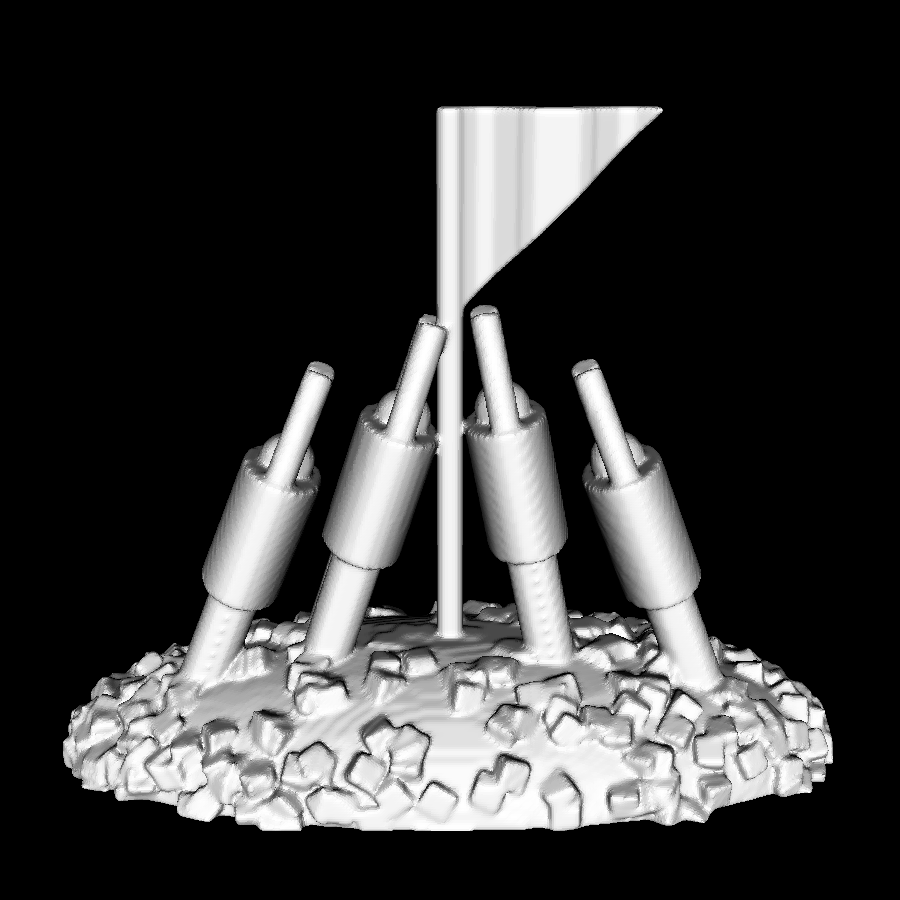
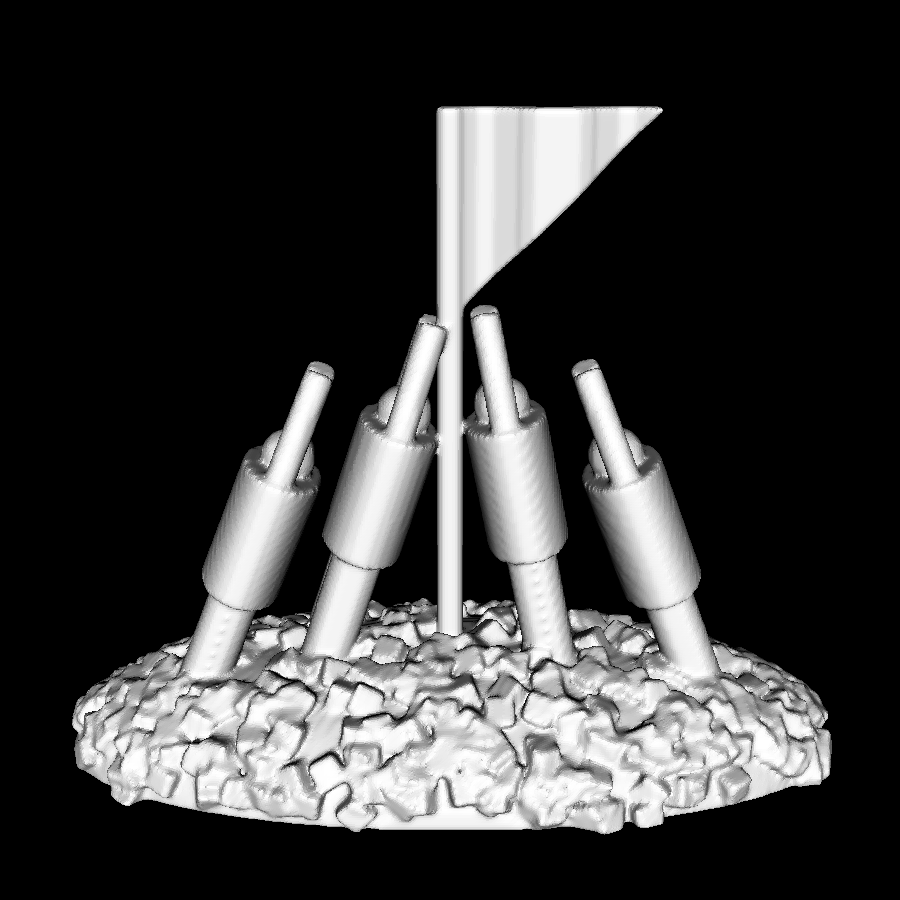
flag statue: more uniform rocks; more of a neck

diff --git a/examples/parody/flag_statue/base.go b/examples/parody/flag_statue/base.go
@@ -17,34 +17,24 @@ const (
 )
 
 func GenerateBase() model3d.Solid {
+	extra := model3d.Coord3D{X: 1, Y: 1}.Scale(BaseChunkSize)
 	return model3d.IntersectedSolid{
 		&model3d.RectSolid{
-			MinVal: model3d.Coord3D{X: -BaseLength / 2, Y: -BaseWidth / 2, Z: 0},
-			MaxVal: model3d.Coord3D{X: BaseLength / 2, Y: BaseWidth / 2, Z: BaseHeight},
+			MinVal: model3d.Coord3D{X: -BaseLength / 2, Y: -BaseWidth / 2, Z: 0}.Sub(extra),
+			MaxVal: model3d.Coord3D{X: BaseLength / 2, Y: BaseWidth / 2,
+				Z: BaseHeight + BaseChunkSize}.Add(extra),
 		},
 		model3d.JoinedSolid{
-			GenerateBasePolytope(),
+			BaseSmoothSolid{},
 			GenerateChunkyFinish(),
 		},
 	}
 }
 
-func GenerateBasePolytope() model3d.Solid {
-	var result model3d.ConvexPolytope
-	for i := 0; i < 1000; i++ {
-		v, v1 := SampleBasePoint()
-		result = append(result, &model3d.LinearConstraint{
-			Normal: v,
-			Max:    v1.Norm(),
-		})
-	}
-	return &BasePolytopeSolid{P: result}
-}
-
 func GenerateChunkyFinish() model3d.Solid {
 	var chunks model3d.JoinedSolid
-	for i := 0; i < 300; i++ {
-		_, v1 := SampleBasePoint()
+	for i := 0; i < 500; i++ {
+		center := SampleBasePoint()
 
 		rotAxis := model3d.NewCoord3DRandUnit()
 		ax1, ax2 := rotAxis.OrthoBasis()
@@ -53,7 +43,7 @@ func GenerateChunkyFinish() model3d.Solid {
 		ax1, ax2 = ax1.Scale(cos).Add(ax2.Scale(sin)), ax1.Scale(-sin).Add(ax2.Scale(cos))
 		chunks = append(chunks, &BaseChunk{
 			Axes:   [3]model3d.Coord3D{rotAxis, ax1, ax2},
-			Center: v1,
+			Center: center,
 		})
 	}
 
@@ -63,7 +53,7 @@ func GenerateChunkyFinish() model3d.Solid {
 		return chunks[i].Min().X < chunks[j].Min().X
 	})
 	var aggChunks model3d.JoinedSolid
-	aggSize := len(chunks) / 10
+	aggSize := len(chunks) / 20
 	for i := 0; i < len(chunks); i += aggSize {
 		subset := chunks[i:]
 		if len(subset) > aggSize {
@@ -74,28 +64,33 @@ func GenerateChunkyFinish() model3d.Solid {
 	return aggChunks
 }
 
-func SampleBasePoint() (spherical, base model3d.Coord3D) {
-	spherical = model3d.NewCoord3DRandUnit()
-	if spherical.Z < 0 {
-		spherical = spherical.Scale(-1)
+func SampleBasePoint() model3d.Coord3D {
+	var x, y, z float64
+	for {
+		// This is not quite uniform, but it is spread
+		// out fairly nicely over the ellipsoid base.
+		x = math.Tanh(rand.Float64()*4-2) * BaseLength / 2
+		y = math.Tanh(rand.Float64()*4-2) * BaseWidth / 2
+		z = math.Sqrt(1-(math.Pow(2*x/BaseLength, 2)+math.Pow(2*y/BaseWidth, 2))) * BaseHeight
+		if !math.IsNaN(z) {
+			break
+		}
 	}
-	base = spherical.Mul(model3d.Coord3D{X: BaseLength / 2, Y: BaseWidth / 2, Z: BaseHeight})
-	return
+	return model3d.Coord3D{X: x, Y: y, Z: z}
 }
 
-type BasePolytopeSolid struct {
-	P model3d.ConvexPolytope
-}
+type BaseSmoothSolid struct{}
 
-func (b BasePolytopeSolid) Min() model3d.Coord3D {
+func (b BaseSmoothSolid) Min() model3d.Coord3D {
 	return model3d.Coord3D{X: -BaseLength / 2, Y: -BaseWidth / 2}
 }
-func (b BasePolytopeSolid) Max() model3d.Coord3D {
+func (b BaseSmoothSolid) Max() model3d.Coord3D {
 	return model3d.Coord3D{X: BaseLength / 2, Y: BaseWidth / 2, Z: BaseHeight}
 }
 
-func (b BasePolytopeSolid) Contains(c model3d.Coord3D) bool {
-	return model3d.InSolidBounds(b, c) && b.P.Contains(c)
+func (b BaseSmoothSolid) Contains(c model3d.Coord3D) bool {
+	cScale := model3d.Coord3D{X: 2 / BaseLength, Y: 2 / BaseWidth, Z: 1 / BaseHeight}
+	return model3d.InSolidBounds(b, c) && c.Mul(cScale).Norm() < 1
 }
 
 type BaseChunk struct {

diff --git a/examples/parody/flag_statue/person.go b/examples/parody/flag_statue/person.go
@@ -22,6 +22,7 @@ const (
 	PersonShoulder    = 0.1
 
 	PersonHeadRadius = 0.2
+	PersonHeadOffset = PersonHeadRadius / 2
 )
 
 func GeneratePeople() model3d.Solid {
@@ -90,7 +91,7 @@ func (p *PersonSolid) Contains(c model3d.Coord3D) bool {
 	topSolid := model3d.JoinedSolid{
 		&model3d.SphereSolid{
 			Center: model3d.Coord3D{
-				Z: PersonLegHeight + PersonTorsoHeight + PersonHeadRadius/3,
+				Z: PersonLegHeight + PersonTorsoHeight + PersonHeadOffset,
 			},
 			Radius: PersonHeadRadius,
 		},
